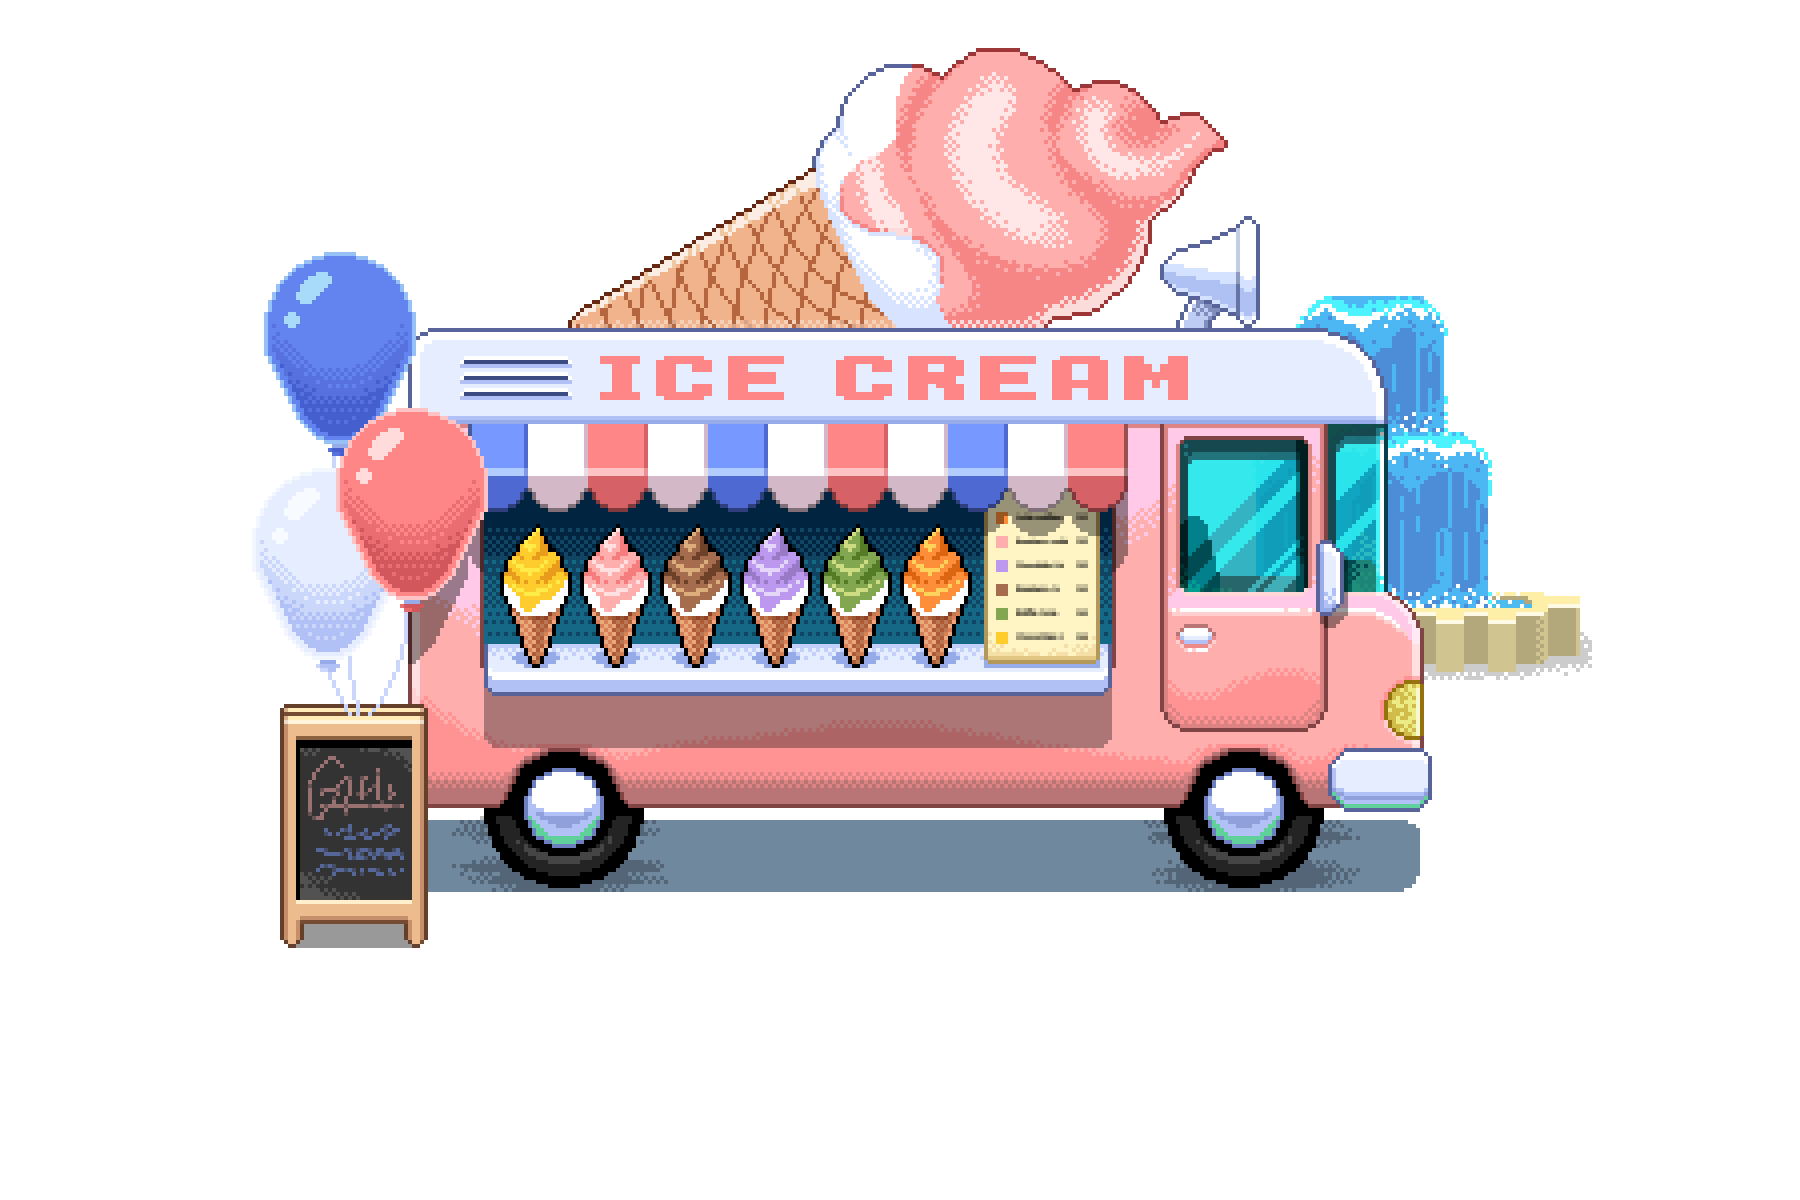
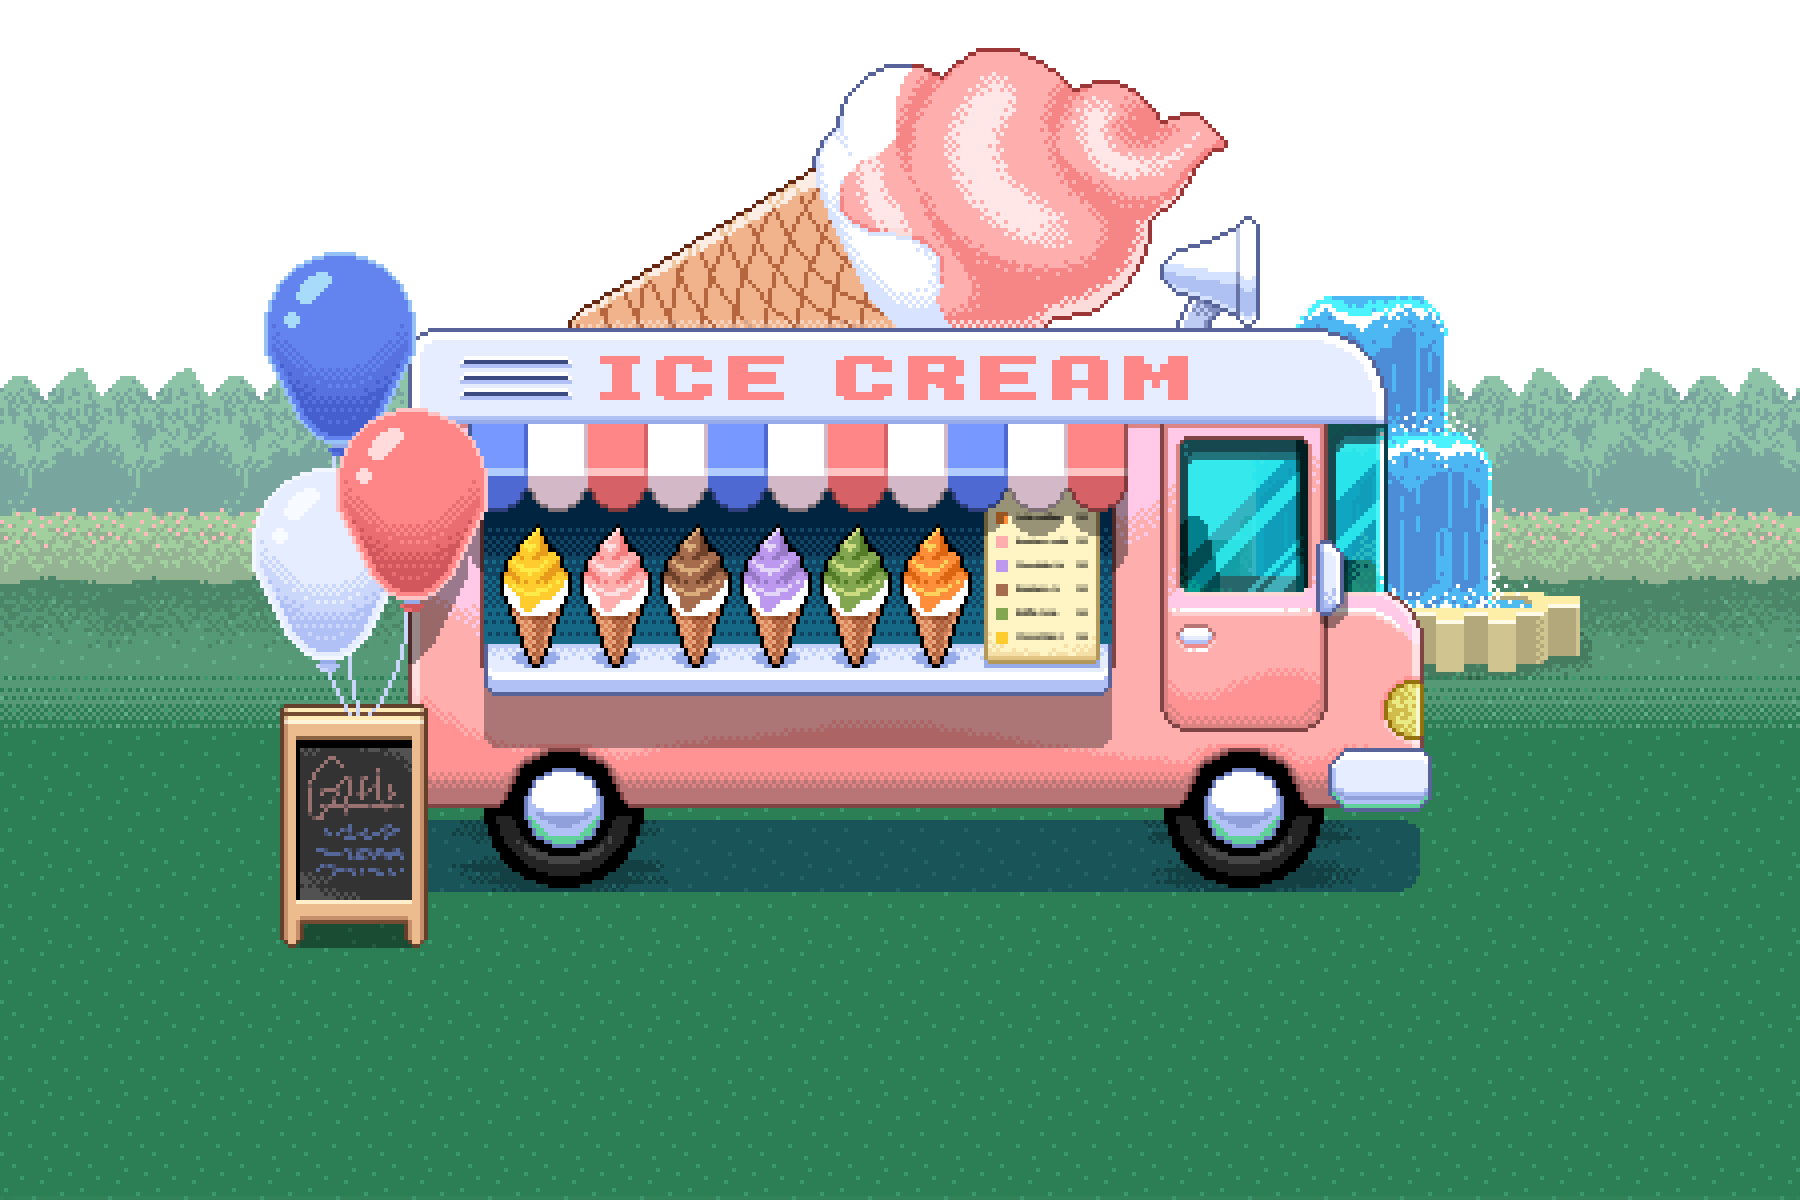
feat: icecream scene and pwa added

diff --git a/src/components/Scene/Scene-Rotate.vue b/src/components/Scene/Scene-Rotate.vue
@@ -1,18 +1,53 @@
 <script setup lang="ts">
-import { computed, reactive } from 'vue'
+import { computed, onBeforeUnmount, onMounted, reactive, ref } from 'vue'
 import { useTimeout, useWindowSize } from '@vueuse/core'
+import { onTick } from 'vue3-pixi'
+import { isMobile } from "pixi.js";
 
 import { useGameStore } from '@/stores/game'
 import { textureOptions } from '@/components/Settings.vue'
-import { onTick } from 'vue3-pixi'
 
 const gameStore = useGameStore()
 
 const { width: screenWidth, height: screenHeight } = useWindowSize()
 const zoomFactor = computed(() => screenWidth.value / 1280)
 
+const pwaInstalled = ref(false);
+const installPromptEvent = ref<Event | null>(null);
+
+// Check if the app is running as a PWA
+function checkIfInstalled() {
+  if (window.matchMedia('(display-mode: standalone)').matches) {
+    pwaInstalled.value = isMobile.any ? true : false
+  }
+}
+
+const handleAppInstalled = () => {
+  console.log('PWA installed');
+  pwaInstalled.value = true;
+};
+
+onMounted(() => {
+  checkIfInstalled();
+
+  // Listen for the 'beforeinstallprompt' event and store it
+  const handleBeforeInstallPrompt = (event: Event) => {
+    event.preventDefault(); // Prevent the default mini-infobar from appearing
+    installPromptEvent.value = event; // Save the event for later use
+  };
+
+  window.addEventListener('beforeinstallprompt', handleBeforeInstallPrompt);
+  window.addEventListener('appinstalled', handleAppInstalled);
+
+  // Clean up listeners
+  onBeforeUnmount(() => {
+    window.removeEventListener('beforeinstallprompt', handleBeforeInstallPrompt);
+    window.removeEventListener('appinstalled', handleAppInstalled);
+  });
+});
+
 const modal = computed(() => ({
-  image: 'popupSceneRotate',
+  image: !pwaInstalled.value ? 'popupSceneInstall' : 'popupSceneRotate',
   state: { x: (screenWidth.value * 1) / 2, y: (screenHeight.value * 1) / 2, scale: 1.8 * zoomFactor.value },
 }))
 
@@ -20,10 +55,15 @@ async function handleRotate() {
   await gameStore.toggleGameMode(true)
 }
 
+async function handleClick() {
+  if (!pwaInstalled.value)
+    handleAppInstalled()
+  else
+    await handleRotate()
+}
+
 const ready = useTimeout(250)
-
 const rotate = reactive({ x: 0, y: 305, scale: 0.3 })
-
 let count = 0
 
 onTick((delta) => {
@@ -35,16 +75,8 @@ onTick((delta) => {
 <template>
   <Container v-if="ready" :x="modal.state.x" :y="modal.state.y" :scale="modal.state.scale">
     <Sprite texture="popupSceneRotateOverlay" :anchor="0.5" :scale="10" />
-    <Sprite
-      :texture="modal.image"
-      :texture-options="textureOptions"
-      :anchor="0.5"
-      :scale="0.5"
-      cursor="pointer"
-      @click="handleRotate"
-      @mousedown="handleRotate"
-      @pointerdown="handleRotate"
-      @touchstart="handleRotate" />
+    <Sprite :texture="modal.image" :texture-options="textureOptions" :anchor="0.5" :scale="0.5" cursor="pointer"
+      @click="handleClick" @mousedown="handleClick" @pointerdown="handleClick" @touchstart="handleClick" />
     <Sprite texture="popupIconRotate" :x="rotate.x" :y="rotate.y" :scale="rotate.scale" :anchor="0.5" />
   </Container>
 </template>

diff --git a/src/components/Screen/Park.vue b/src/components/Screen/Park.vue
@@ -1,7 +1,7 @@
 <script setup lang="ts">
-import { computed, onBeforeMount, onMounted, reactive, ref, watch, watchEffect } from 'vue'
+import { computed, onBeforeMount, reactive, ref } from 'vue'
 import { External } from 'vue3-pixi'
-import { useTimeoutFn, useWindowSize } from '@vueuse/core'
+import { useWindowSize } from '@vueuse/core'
 import { storeToRefs } from 'pinia'
 
 import { useGameStore } from '@/stores/game'
@@ -19,7 +19,7 @@ const emit = defineEmits<{
 }>()
 
 const gameStore = useGameStore()
-const { currentSceneIndex, currentPopupIndex, rotationStop } = storeToRefs(gameStore)
+const { currentPopupIndex, rotationStop } = storeToRefs(gameStore)
 
 const { width: screenWidth, height: screenHeight } = useWindowSize()
 
@@ -60,16 +60,23 @@ const characterIcecreamVendor = reactive({
   state: { x: -90, y: 170, scale: 1, alpha: 1, time: 0 },
 })
 
-function onLoad() {}
+function onLoad() {
+  setTimeout(() => {
+    gameStore.nextTimeline({ id: 23 })
+  }, 2000)
+}
 
 onBeforeMount(onLoad)
 </script>
 
 <template>
   <Container :x="screenWidth / 2" :y="screenHeight / 2" :scale="1 * zoomFactor">
-    <Sprite :texture="park.alias.bg" :texture-options="textureOptions" :x="park.state.x" :y="park.state.y" :scale="park.state.scale" :anchor="0.5" />
-    <Cloud v-for="({ size, x, y, direction }, index) in clouds" :key="index" place="park" :width-range="screenWidth" :size="size" :x="x" :y="y" :scale="1" :direction="direction" />
-    <Sprite :texture="park.alias.fg" :texture-options="textureOptions" :x="park.state.x" :y="park.state.y" :scale="park.state.scale" :anchor="0.5" />
+    <Sprite :texture="park.alias.bg" :texture-options="textureOptions" :x="park.state.x" :y="park.state.y - 400"
+      :scale="park.state.scale" :anchor="0.5" />
+    <Cloud v-for="({ size, x, y, direction }, index) in clouds" :key="index" place="park" :width-range="screenWidth"
+      :size="size" :x="x" :y="y" :scale="1" :direction="direction" />
+    <Sprite :texture="park.alias.fg" :texture-options="textureOptions" :x="park.state.x" :y="park.state.y"
+      :scale="park.state.scale" :anchor="0.5" />
     <Pigeon v-for="({ x, y, scale, flip }, index) in pigeons" :key="index" :x="x" :y="y" :scale="scale" :flip="flip" />
   </Container>
   <Container v-if="!rotationStop">

diff --git a/src/utils/asset.ts b/src/utils/asset.ts
@@ -4,6 +4,7 @@ import frontINET from '/fonts/INET.ttf'
 import frontLAN from '/fonts/LAN.ttf'
 // asset
 import popupIconRotateTexture from '@/assets/image/popup/icon-rotate.png'
+import popupSceneInstallTexture from '@/assets/image/popup/scene-install.png'
 import popupSceneRotateTexture from '@/assets/image/popup/scene-rotate.png'
 import popupSceneRotateOverlayTexture from '@/assets/image/popup/scene-rotate-overlay.png'
 import popupScene01LandscapeTexture from '@/assets/image/popup/scene-0-1-landscape.png'
@@ -139,7 +140,6 @@ import characterBaloonVendor2Texture from '@/assets/image/character/ballon-vendo
 // Icecream Vendor
 import characterMapIcecreamVendor1Texture from '@/assets/image/character/icecream-vendor/map-1.png'
 import characterMapIcecreamVendor2Texture from '@/assets/image/character/icecream-vendor/map-2.png'
-import characterParkIcecreamVendorHandoutTexture from '@/assets/image/character/icecream-vendor/park-handout.png'
 import characterParkIcecreamVendorWave1Texture from '@/assets/image/character/icecream-vendor/park-wave-1.png'
 import characterParkIcecreamVendorWave2Texture from '@/assets/image/character/icecream-vendor/park-wave-2.png'
 // Panic Character
@@ -328,6 +328,7 @@ export const resources = {
     frontLAN,
   },
   image: {
+    popupSceneInstall: popupSceneInstallTexture,
     popupIconRotate: popupIconRotateTexture,
     popupSceneRotate: popupSceneRotateTexture,
     popupSceneRotateOverlay: popupSceneRotateOverlayTexture,
@@ -600,7 +601,6 @@ export const resources = {
     //
     parkCharacterIcecreamVendorWave1: characterParkIcecreamVendorWave1Texture,
     parkCharacterIcecreamVendorWave2: characterParkIcecreamVendorWave2Texture,
-    parkCharacterIcecreamVendorHandout: characterParkIcecreamVendorHandoutTexture,
     //
     characterBaloonVendor1: characterBaloonVendor1Texture,
     characterBaloonVendor2: characterBaloonVendor2Texture,

diff --git a/src/components/Scene/Scene-4-3.vue b/src/components/Scene/Scene-4-3.vue
@@ -1,12 +1,11 @@
 <script setup lang="ts">
 import { computed, ref } from 'vue'
-import { useWindowSize, watchDebounced } from '@vueuse/core'
+import { useWindowSize } from '@vueuse/core'
 import { storeToRefs } from 'pinia'
 
 import { useDataStore, type dataResponsibilityChoice } from '@/stores/data'
 import { useGameStore } from '@/stores/game'
 import { textureOptions } from '@/components/Settings.vue'
-import { onUnmounted } from 'vue'
 
 const dataStore = useDataStore()
 const gameStore = useGameStore()
@@ -57,16 +56,8 @@ const frames = ['buttonSquare', 'buttonSquarePressed']
 <template>
   <Container :x="modal.state.x" :y="modal.state.y" :scale="modal.state.scale">
     <Sprite :texture="modal.image" :texture-options="textureOptions" :anchor="0.5" :scale="0.5" />
-    <Sprite
-      v-for="{ type, state } of options"
-      :key="type"
-      :texture="frames[Number(selectedOption === type)]"
-      :texture-options="textureOptions"
-      :x="state.x"
-      :y="state.y"
-      :scale="state.scale"
-      cursor="pointer"
-      @click="onClick(type)"
-      @touchstart="onClick(type)" />
+    <Sprite v-for="{ type, state } of options" :key="type" :texture="frames[Number(selectedOption === type)]"
+      :texture-options="textureOptions" :x="state.x" :y="state.y" :scale="state.scale" cursor="pointer"
+      @click="onClick(type)" @touchstart="onClick(type)" />
   </Container>
 </template>

diff --git a/src/components/Animation/Character/CharacterIcecreamVendor.vue b/src/components/Animation/Character/CharacterIcecreamVendor.vue
@@ -1,5 +1,5 @@
 <script setup lang="ts">
-import { onMounted, ref, watch } from 'vue';
+import { watch } from 'vue';
 import { storeToRefs } from 'pinia';
 
 import { useGameStore } from '@/stores/game';
@@ -15,19 +15,10 @@ const props = defineProps<{
   place: 'map' | 'park'
 }>()
 
-const imgs = {
-  map: { wave: ['mapCharacterIcecreamVendor1', 'mapCharacterIcecreamVendor2'] },
-  park: { wave: ['parkCharacterIcecreamVendorWave1', 'parkCharacterIcecreamVendorWave2'], handout: ['parkCharacterIcecreamVendorHandout'] },
+const images = {
+  map: ['mapCharacterIcecreamVendor1', 'mapCharacterIcecreamVendor2'],
+  park: ['parkCharacterIcecreamVendorWave1', 'parkCharacterIcecreamVendorWave2'],
 }
-
-const images = ref<string[]>(imgs.map.wave)
-
-onMounted(() => {
-  if (props.place == 'map')
-    images.value = imgs.map.wave
-  else
-    images.value = imgs.park.wave
-})
 
 watch(currentSceneIndex, (value) => {
   if (props.place !== 'map')
@@ -36,6 +27,6 @@ watch(currentSceneIndex, (value) => {
 </script>
 
 <template>
-  <AppAnimatedSprite :textures="images" :texture-options="textureOptions" :anchor="0.5" :scale="state.scale"
+  <AppAnimatedSprite :textures="images[place]" :texture-options="textureOptions" :anchor="0.5" :scale="state.scale"
     :x="state.x" :y="state.y" :playing="true" :animation-speed="0.03" />
 </template>

diff --git a/src/components/Scene/Scene-1-1.vue b/src/components/Scene/Scene-1-1.vue
@@ -23,6 +23,7 @@ function handleStart() {
   setTimeout(async () => {
     await gameStore.toggleGameMode(true)
     gameStore.playBGMSound('normal')
+    gameStore.nextTimeline({ id: 1 })
   }, 100)
 }
 
@@ -45,7 +46,7 @@ onTick((delta) => {
 </script>
 
 <template>
-  <Container v-if="false" :x="modal.state.x" :y="modal.state.y" :scale="modal.state.scale">
+  <Container :x="modal.state.x" :y="modal.state.y" :scale="modal.state.scale">
     <Sprite :texture="modal.image" :texture-options="textureOptions" :anchor="0.5" :scale="0.25" cursor="pointer"
       @click="handleStart" @mousedown="handleStart" @pointerdown="handleStart" @touchstart="handleStart" />
     <Sprite v-if="!isLandscape" texture="popupIconRotate" :x="rotate.x" :y="rotate.y" :scale="rotate.scale"

diff --git a/src/App.vue b/src/App.vue
@@ -44,7 +44,7 @@ function onResolve() {
     </Loader>
   </Application>
   <!-- DEBUG -->
-  <!--  <div class="fixed left-0 top-0 z-[99999] flex flex-col gap-2 bg-white p-2">
+  <div class="fixed left-0 top-0 z-[99999] flex flex-col gap-2 bg-white p-2">
     <p>v0.3.16</p>
     <p>TimelineIndex: {{ gameStore.timelineIndex }}</p>
     <p>ScreenIndex: {{ gameStore.currentScreenIndex }}</p>
@@ -54,7 +54,7 @@ function onResolve() {
   </div>
   <div class="fixed right-0 top-0 z-[99999] flex flex-col gap-2 bg-white p-2">
     <button @click="gameStore.toggleHardStop(!hardStop)">HardStop {{ hardStop }}</button>
-  </div> -->
+  </div>
 </template>
 
 <style lang="css">

diff --git a/src/stores/game.ts b/src/stores/game.ts
@@ -36,6 +36,7 @@ export const timeline: {
     { screen: 2, popup: -1, scene: 14, character: 10, time: 15 },
     { screen: 2, popup: -1, scene: 15, character: 11, time: 16.5 },
     { screen: 2, popup: -1, scene: 16, character: 12 },
+    { screen: 3, popup: -1, scene: 16, character: 12 },
     { screen: 3, popup: 8, scene: 16, character: 12 },
     { screen: 3, popup: 9, scene: 16, character: 12 },
     { screen: 3, popup: 10, scene: 16, character: 12 },

diff --git a/src/components/Scene/Scene-3-1.vue b/src/components/Scene/Scene-3-1.vue
@@ -1,9 +1,9 @@
 <script setup lang="ts">
-import { useTimeoutFn, useWindowSize } from '@vueuse/core'
-import { useGameStore } from '@/stores/game'
-
-import { textureOptions } from '@/components/Settings.vue'
 import { computed, ref } from 'vue'
+import { useTimeoutFn, useWindowSize } from '@vueuse/core'
+
+import { useGameStore } from '@/stores/game'
+import { textureOptions } from '@/components/Settings.vue'
 
 const gameStore = useGameStore()
 
